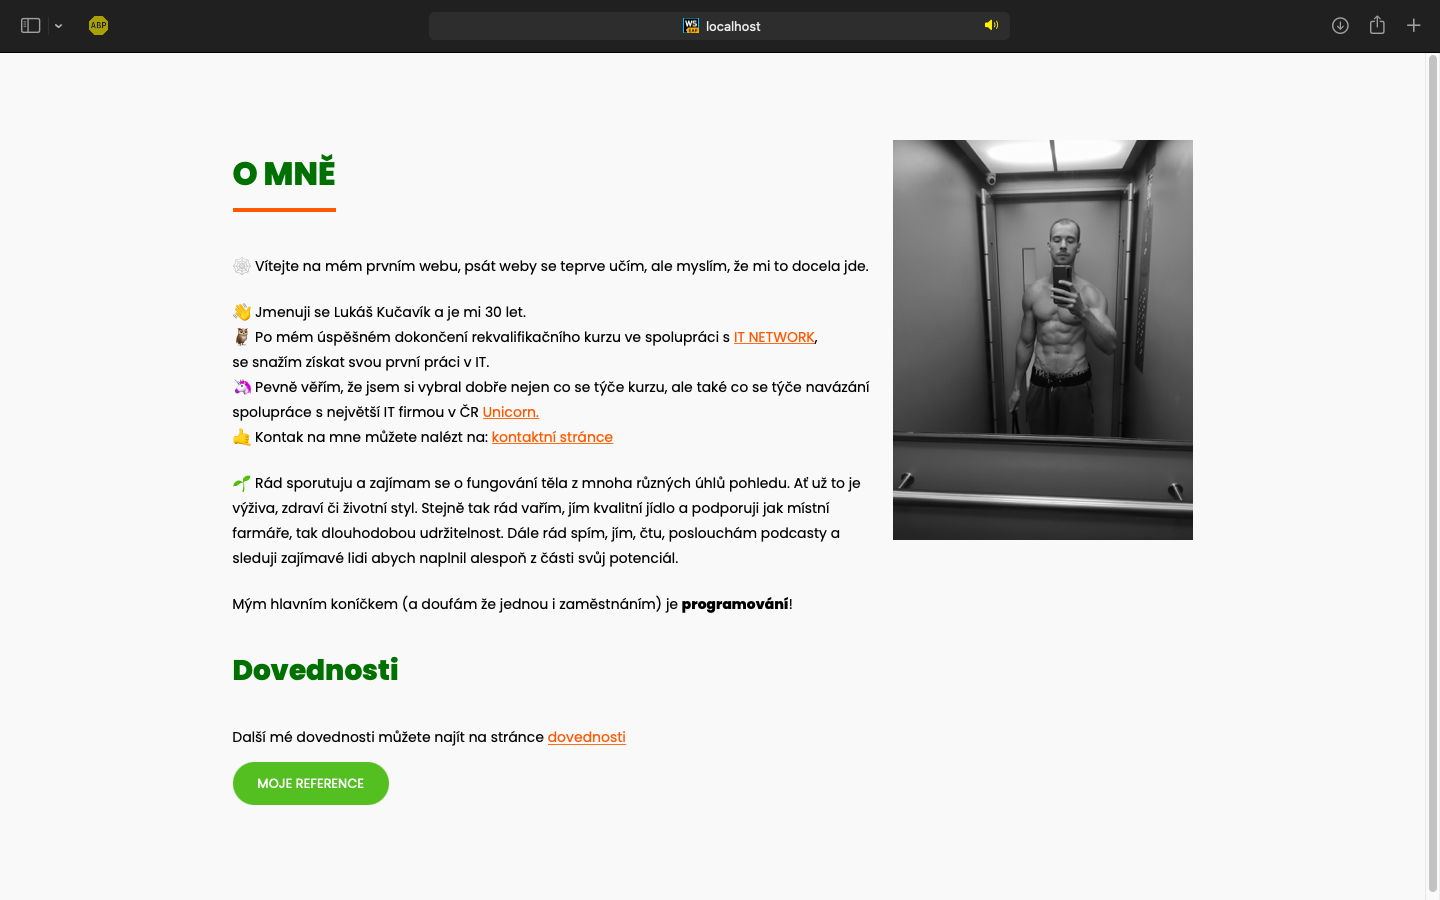
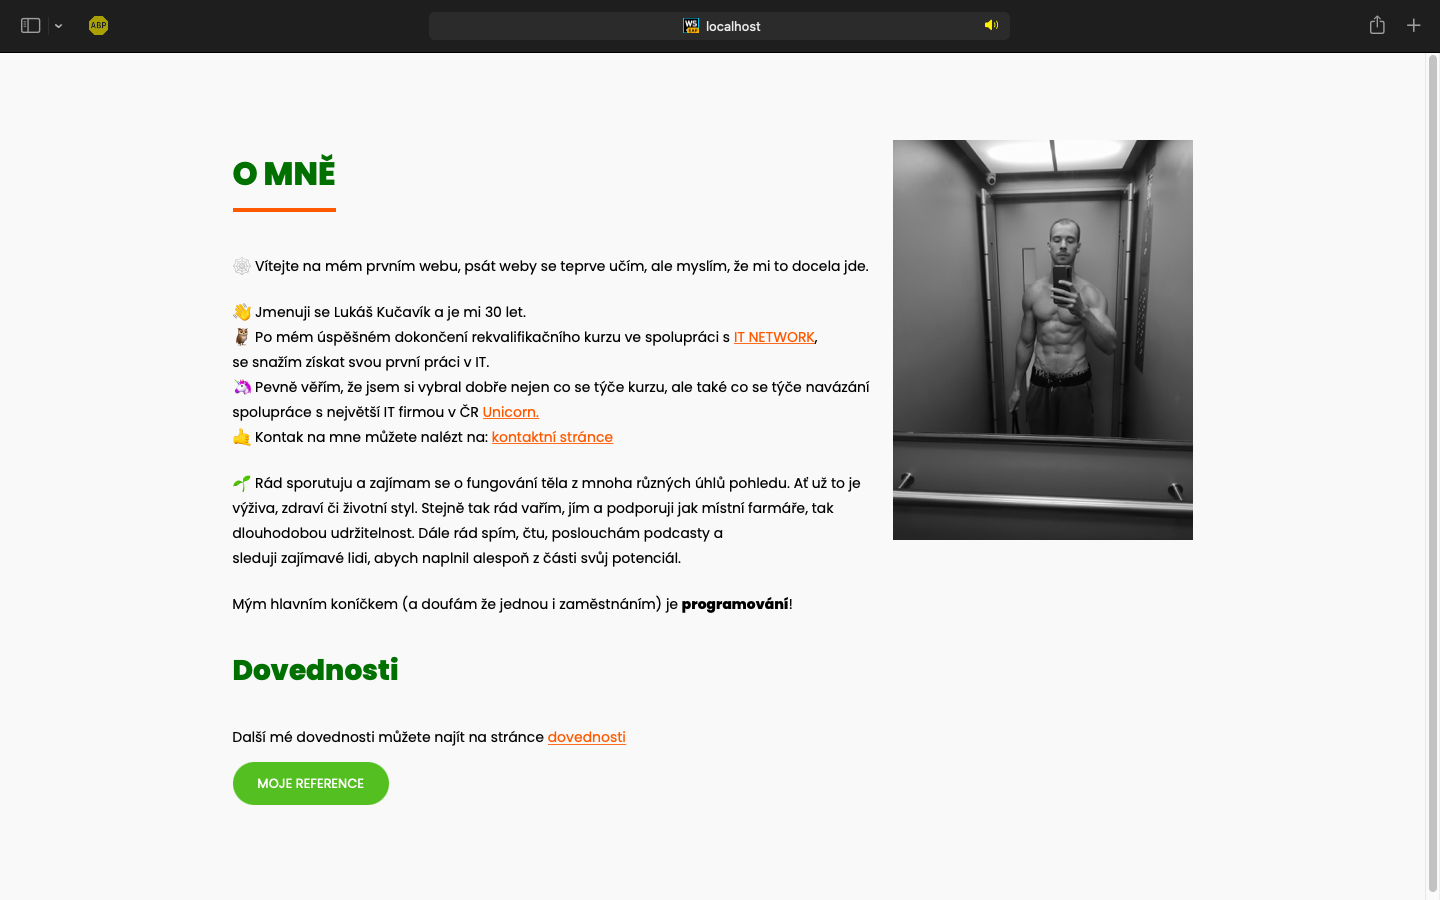
changing main-page picture

Changed region(s): [[0.1562, 0.56, 0.5938, 0.6533]]

diff --git a/index.html b/index.html
@@ -29,10 +29,10 @@
 
             <p>
                 🌱 Rád sporutuju a zajímam se o fungování těla z mnoha různých úhlů pohledu. Ať už to je<br>
-                výživa, zdraví či životní styl. Stejně tak rád vařím, jím kvalitní jídlo a podporuji jak místní farmáře,
+                výživa, zdraví či životní styl. Stejně tak rád vařím, jím a podporuji jak místní farmáře,
                 tak dlouhodobou udržitelnost.
-                Dále rád spím, jím, čtu, poslouchám podcasty a<br> sleduji
-                zajímavé lidi abych naplnil alespoň z části svůj potenciál.
+                Dále rád spím, čtu, poslouchám podcasty a<br> sleduji
+                zajímavé lidi, abych naplnil alespoň z části svůj potenciál.
             </p>
 
             <p>
